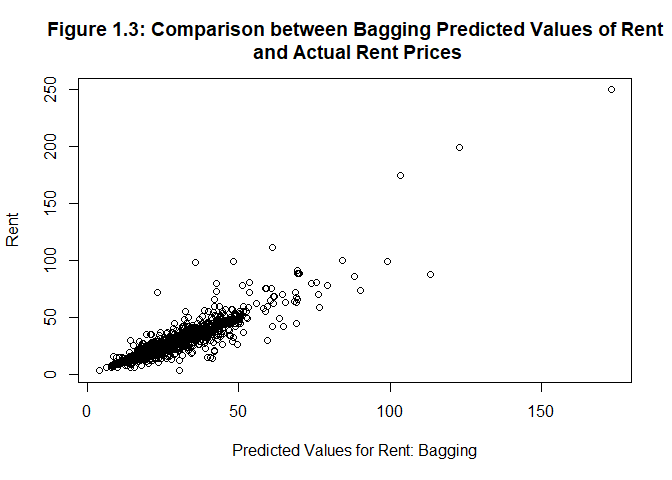
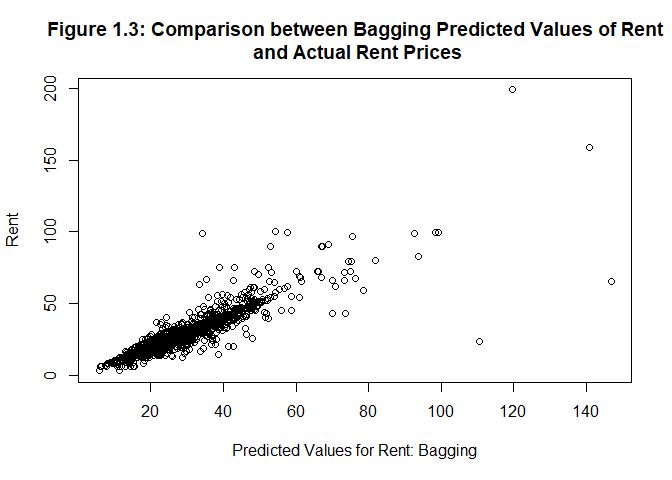
3

diff --git a/EX3/Exercise-3.md b/EX3/Exercise-3.md
@@ -2757,7 +2757,7 @@ Hand-Built Linear Model
 
 <td style="text-align:right;">
 
-11.70088
+11.74068
 
 </td>
 
@@ -2773,7 +2773,7 @@ Forward Selection Linear Model
 
 <td style="text-align:right;">
 
-11.04070
+11.06275
 
 </td>
 
@@ -2789,7 +2789,7 @@ Lasso
 
 <td style="text-align:right;">
 
-12.07130
+12.11386
 
 </td>
 
@@ -2835,8 +2835,8 @@ them reduces the variance.
     ##                      Number of trees: 500
     ## No. of variables tried at each split: 17
     ## 
-    ##           Mean of squared residuals: 51.00963
-    ##                     % Var explained: 77.18
+    ##           Mean of squared residuals: 51.90195
+    ##                     % Var explained: 77.69
 
 The plot below shows that the bagging procedure can produce quite
 accurate predictions most of the time.
@@ -2914,7 +2914,7 @@ LOOCV RMSE Rent Hand-Built Model
 
 <td style="text-align:right;">
 
-11.741489
+11.729939
 
 </td>
 
@@ -2930,7 +2930,7 @@ LOOCV RMSE Rent Forward Selection Model
 
 <td style="text-align:right;">
 
-11.037130
+11.041656
 
 </td>
 
@@ -2946,7 +2946,7 @@ LOOCV RMSE Model Lasso Model
 
 <td style="text-align:right;">
 
-12.118609
+12.114395
 
 </td>
 
@@ -2962,7 +2962,7 @@ LOOCV RMSE Model Bagging Model
 
 <td style="text-align:right;">
 
-6.803130
+7.082581
 
 </td>
 
@@ -2978,7 +2978,7 @@ LOOCV RMSE Model RandomForest Model
 
 <td style="text-align:right;">
 
-7.122188
+7.408520
 
 </td>
 
